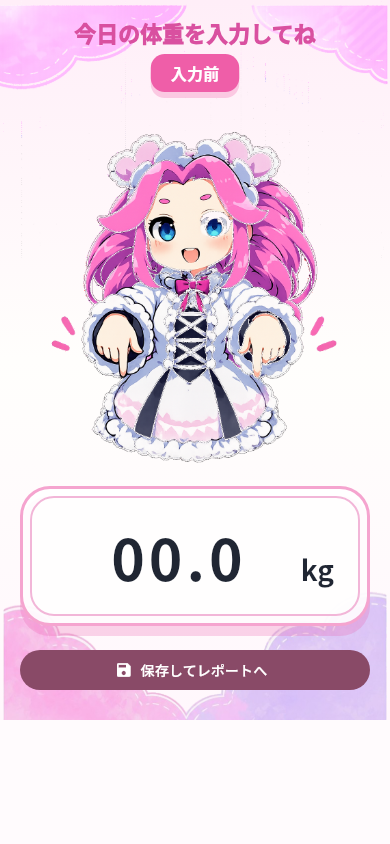
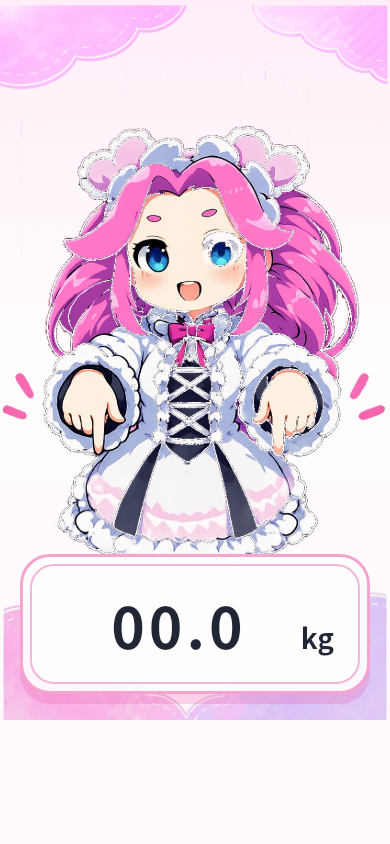
Adjust home screen input layout

diff --git a/lib/screens/home_screen.dart b/lib/screens/home_screen.dart
@@ -4,7 +4,6 @@ import 'package:flutter/material.dart';
 import 'package:flutter_riverpod/flutter_riverpod.dart';
 
 import '../providers/weight_providers.dart';
-import 'report_screen.dart';
 
 class HomeScreen extends ConsumerStatefulWidget {
   const HomeScreen({super.key});
@@ -35,20 +34,6 @@ class _HomeScreenState extends ConsumerState<HomeScreen> {
     super.dispose();
   }
 
-  Future<void> _save() async {
-    if (!_formKey.currentState!.validate()) return;
-    final repository = await ref.read(weightRepositoryProvider.future);
-    await repository.saveToday(double.parse(_controller.text));
-    _focusNode.unfocus();
-    if (!mounted) return;
-    ScaffoldMessenger.of(
-      context,
-    ).showSnackBar(const SnackBar(content: Text('体重を保存しました。レポートを表示します。')));
-    await Navigator.of(
-      context,
-    ).push(MaterialPageRoute<void>(builder: (_) => const ReportScreen()));
-  }
-
   @override
   Widget build(BuildContext context) {
     final entriesAsync = ref.watch(weightEntriesProvider);
@@ -67,9 +52,6 @@ class _HomeScreenState extends ConsumerState<HomeScreen> {
                   characterAsset: _characterPointingInput,
                   cloudTopAsset: _cloudTop,
                   cloudBottomAsset: _cloudBottom,
-                  statusLabel: _statusLabel,
-                  helperText: _helperText,
-                  onSave: _save,
                 ),
               ),
             ],
@@ -81,10 +63,6 @@ class _HomeScreenState extends ConsumerState<HomeScreen> {
       ),
     );
   }
-
-  String get _statusLabel => '入力前';
-
-  String get _helperText => '今日の体重を入力してね';
 }
 
 class _WeightInputHero extends StatelessWidget {
@@ -95,9 +73,6 @@ class _WeightInputHero extends StatelessWidget {
     required this.characterAsset,
     required this.cloudTopAsset,
     required this.cloudBottomAsset,
-    required this.statusLabel,
-    required this.helperText,
-    required this.onSave,
   });
 
   final GlobalKey<FormState> formKey;
@@ -106,9 +81,6 @@ class _WeightInputHero extends StatelessWidget {
   final String characterAsset;
   final String cloudTopAsset;
   final String cloudBottomAsset;
-  final String statusLabel;
-  final String helperText;
-  final VoidCallback onSave;
 
   @override
   Widget build(BuildContext context) {
@@ -163,23 +135,6 @@ class _WeightInputHero extends StatelessWidget {
               excludeFromSemantics: true,
             ),
           ),
-          Positioned(
-            top: mediaQuery.padding.top + 18,
-            left: 24,
-            right: 24,
-            child: AnimatedSwitcher(
-              duration: const Duration(milliseconds: 240),
-              child: Text(
-                helperText,
-                key: ValueKey(helperText),
-                textAlign: TextAlign.center,
-                style: Theme.of(context).textTheme.titleLarge?.copyWith(
-                  color: const Color(0xFFD950A0),
-                  fontWeight: FontWeight.w900,
-                ),
-              ),
-            ),
-          ),
           Padding(
             padding: EdgeInsets.fromLTRB(
               20,
@@ -193,34 +148,38 @@ class _WeightInputHero extends StatelessWidget {
                 mainAxisAlignment: MainAxisAlignment.end,
                 crossAxisAlignment: CrossAxisAlignment.center,
                 children: [
-                  _StatusPill(label: statusLabel),
                   const Spacer(),
-                  AnimatedSwitcher(
-                    duration: const Duration(milliseconds: 280),
-                    child: Image.asset(
-                      characterAsset,
-                      key: ValueKey(characterAsset),
-                      height: 390,
-                      fit: BoxFit.contain,
-                      semanticLabel: helperText,
-                    ),
-                  ),
-                  Transform.translate(
-                    offset: const Offset(0, -6),
-                    child: _WeightDisplayCard(
-                      controller: controller,
-                      focusNode: focusNode,
-                      colorScheme: colorScheme,
-                      inputBorder: _inputBorder,
-                    ),
-                  ),
-                  const SizedBox(height: 14),
                   SizedBox(
-                    width: double.infinity,
-                    child: FilledButton.icon(
-                      onPressed: onSave,
-                      icon: const Icon(Icons.save),
-                      label: const Text('保存してレポートへ'),
+                    height: 560,
+                    child: Stack(
+                      clipBehavior: Clip.none,
+                      alignment: Alignment.bottomCenter,
+                      children: [
+                        Positioned(
+                          bottom: 112,
+                          child: AnimatedSwitcher(
+                            duration: const Duration(milliseconds: 280),
+                            child: Image.asset(
+                              characterAsset,
+                              key: ValueKey(characterAsset),
+                              height: 470,
+                              fit: BoxFit.contain,
+                              semanticLabel: '体重入力キャラクター',
+                            ),
+                          ),
+                        ),
+                        Positioned(
+                          left: 0,
+                          right: 0,
+                          bottom: 0,
+                          child: _WeightDisplayCard(
+                            controller: controller,
+                            focusNode: focusNode,
+                            colorScheme: colorScheme,
+                            inputBorder: _inputBorder,
+                          ),
+                        ),
+                      ],
                     ),
                   ),
                 ],
@@ -302,39 +261,6 @@ class _WeightDisplayCard extends StatelessWidget {
             if (weight == null || weight <= 0) return '有効な体重を入力してください';
             return null;
           },
-        ),
-      ),
-    );
-  }
-}
-
-class _StatusPill extends StatelessWidget {
-  const _StatusPill({required this.label});
-
-  final String label;
-
-  @override
-  Widget build(BuildContext context) {
-    return DecoratedBox(
-      decoration: BoxDecoration(
-        color: const Color(0xFFEF5EA8),
-        borderRadius: BorderRadius.circular(14),
-        boxShadow: [
-          BoxShadow(
-            color: const Color(0xFFEF5EA8).withValues(alpha: 0.28),
-            blurRadius: 14,
-            offset: const Offset(0, 6),
-          ),
-        ],
-      ),
-      child: Padding(
-        padding: const EdgeInsets.symmetric(horizontal: 20, vertical: 7),
-        child: Text(
-          label,
-          style: Theme.of(context).textTheme.titleMedium?.copyWith(
-            color: Colors.white,
-            fontWeight: FontWeight.w800,
-          ),
         ),
       ),
     );
